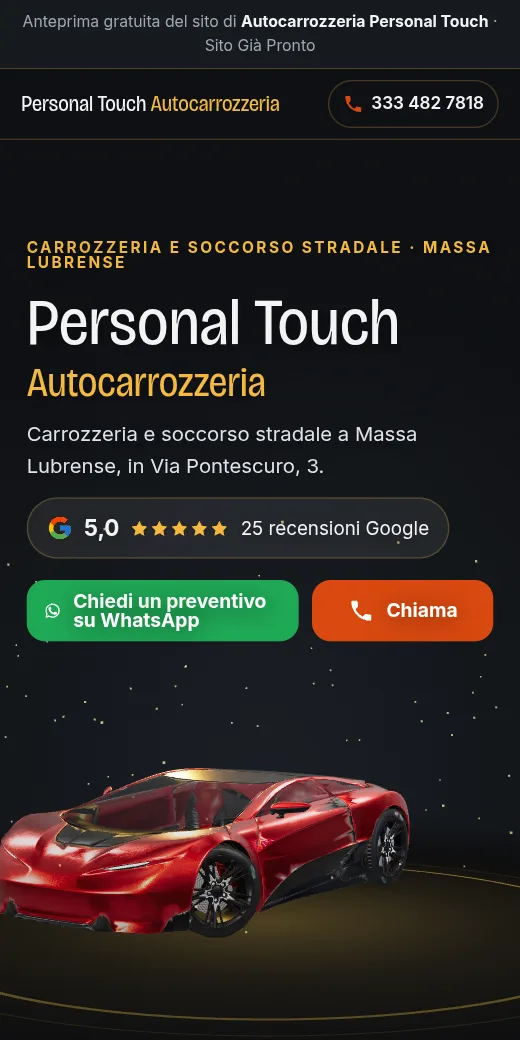
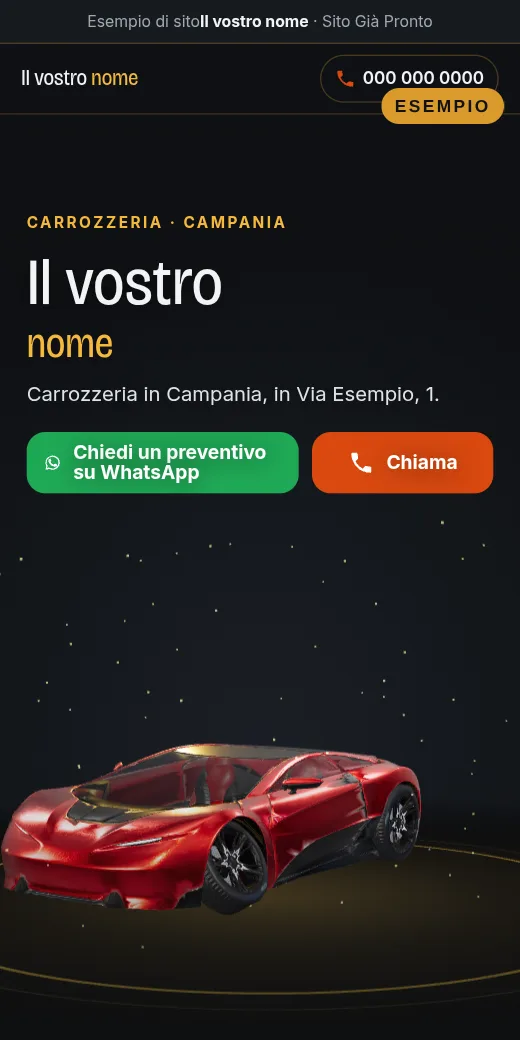
Esempi animati: nome generico, scritta Esempio, niente link alle demo

diff --git a/index.html b/index.html
@@ -84,12 +84,12 @@
       <span class="eyebrow">Esempi</span>
       <h2>Esempi di siti che abbiamo preparato</h2>
       <!-- TESTO DA TESTI -->
-      <p class="muted">Sono anteprime che abbiamo preparato partendo dalle schede Google. Non sono nostri clienti. I primi quattro si muovono mentre scorrete: provateli dal telefono.</p>
+      <p class="muted">Sono anteprime che abbiamo preparato partendo dalle schede Google. Non sono nostri clienti. Il sito si muove mentre scorrete, provatelo dal telefono: i primi quattro sono esempi con nome generico.</p>
       <div class="grid">
-        <a class="ex" href="https://demo.sitogiapronto.it/officina-venanzio-massa-lubrense-3d/" target="_blank" rel="noopener"><img src="assets/esempi/officina-venanzio-massa-lubrense-3d.webp" width="520" height="1040" alt="Anteprima animata del sito preparato per un'autofficina" loading="lazy"><span>Autofficina · Massa Lubrense · animato</span></a>
-        <a class="ex" href="https://demo.sitogiapronto.it/carrozzeria-personal-touch-massa-lubrense-3d/" target="_blank" rel="noopener"><img src="assets/esempi/carrozzeria-personal-touch-massa-lubrense-3d.webp" width="520" height="1040" alt="Anteprima animata del sito preparato per una carrozzeria" loading="lazy"><span>Carrozzeria · Massa Lubrense · animato</span></a>
-        <a class="ex" href="https://demo.sitogiapronto.it/cleopatra-parrucchieri-caserta-3d/" target="_blank" rel="noopener"><img src="assets/esempi/cleopatra-parrucchieri-caserta-3d.webp" width="520" height="1040" alt="Anteprima animata del sito preparato per un parrucchiere" loading="lazy"><span>Parrucchiere · Caserta · animato</span></a>
-        <a class="ex" href="https://demo.sitogiapronto.it/futura-lab-pizzeria-boscotrecase-3d/" target="_blank" rel="noopener"><img src="assets/esempi/futura-lab-pizzeria-boscotrecase-3d.webp" width="520" height="1040" alt="Anteprima animata del sito preparato per una pizzeria" loading="lazy"><span>Pizzeria · Boscotrecase · animato</span></a>
+        <div class="ex"><img src="assets/esempi/officina-venanzio-massa-lubrense-3d.webp" width="520" height="1040" alt="Esempio di sito che si muove, senza il nome di un'attività vera" loading="lazy"><span>Esempio · Autofficina</span></div>
+        <div class="ex"><img src="assets/esempi/carrozzeria-personal-touch-massa-lubrense-3d.webp" width="520" height="1040" alt="Esempio di sito che si muove, senza il nome di un'attività vera" loading="lazy"><span>Esempio · Carrozzeria</span></div>
+        <div class="ex"><img src="assets/esempi/cleopatra-parrucchieri-caserta-3d.webp" width="520" height="1040" alt="Esempio di sito che si muove, senza il nome di un'attività vera" loading="lazy"><span>Esempio · Parrucchiere</span></div>
+        <div class="ex"><img src="assets/esempi/futura-lab-pizzeria-boscotrecase-3d.webp" width="520" height="1040" alt="Esempio di sito che si muove, senza il nome di un'attività vera" loading="lazy"><span>Esempio · Pizzeria</span></div>
         <a class="ex" href="https://andreachiacchio.github.io/demo-sitogiapronto/severino-car-service-giugliano/" target="_blank" rel="noopener"><img src="assets/esempi/severino-car-service-giugliano.webp" width="520" height="1040" alt="Anteprima del sito preparato per un'autofficina" loading="lazy"><span>Autofficina · Giugliano</span></a>
         <a class="ex" href="https://andreachiacchio.github.io/demo-sitogiapronto/verogomme-giugliano/" target="_blank" rel="noopener"><img src="assets/esempi/verogomme-giugliano.webp" width="520" height="1040" alt="Anteprima del sito preparato per un gommista" loading="lazy"><span>Gommista · Giugliano</span></a>
         <a class="ex" href="https://andreachiacchio.github.io/demo-sitogiapronto/rs-parrucchieri-vomero/" target="_blank" rel="noopener"><img src="assets/esempi/rs-parrucchieri-vomero.webp" width="520" height="1040" alt="Anteprima del sito preparato per un parrucchiere" loading="lazy"><span>Parrucchiere · Vomero</span></a>
